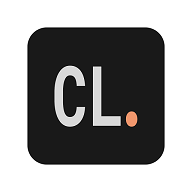
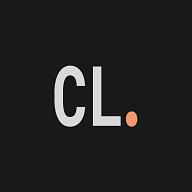
Add files via upload
New icons uploaded

diff --git a/script.js b/script.js
@@ -2012,6 +2012,12 @@ class CigLogTracker {
                     <li>MLL column header changed to clock icon.</li>
                     <li>Skull icon replaced with amber square in timeline.</li>                    
                 </ul>
+                <h4>Version 1.2.6 | 17-05-2026</h4>
+                <ul>
+                    <li>Amber square colour corrected in timeline.</li>
+                    <li>Trigger modal Confirm/Cancel buttons now sticky — always visible while scrolling chips.</li>
+                    <li>Button order standardised - Cancel left, primary action right throughout all modals.</li>                    
+                </ul>
             </ul>
             <div class="version"><a href="https://github.com/fuzzykaiju/ciglog" target="_blank" rel="noopener" style="color:var(--text-primary);">GitHub</a> · MIT License</div>
         `;

diff --git a/index.html b/index.html
@@ -383,7 +383,7 @@
                     <li>Use the side menu for charts, export/import, and settings</li>
                 </ul>
                 <p class="motivation">"Log smokes and cravings - CigLog shows the toll."</p>
-                <div class="version">Version 1.2.5 | 16-05-2026</div>
+                <div class="version">Version 1.2.6 | 17-05-2026</div>
             </div>
         </div>
     </div>
